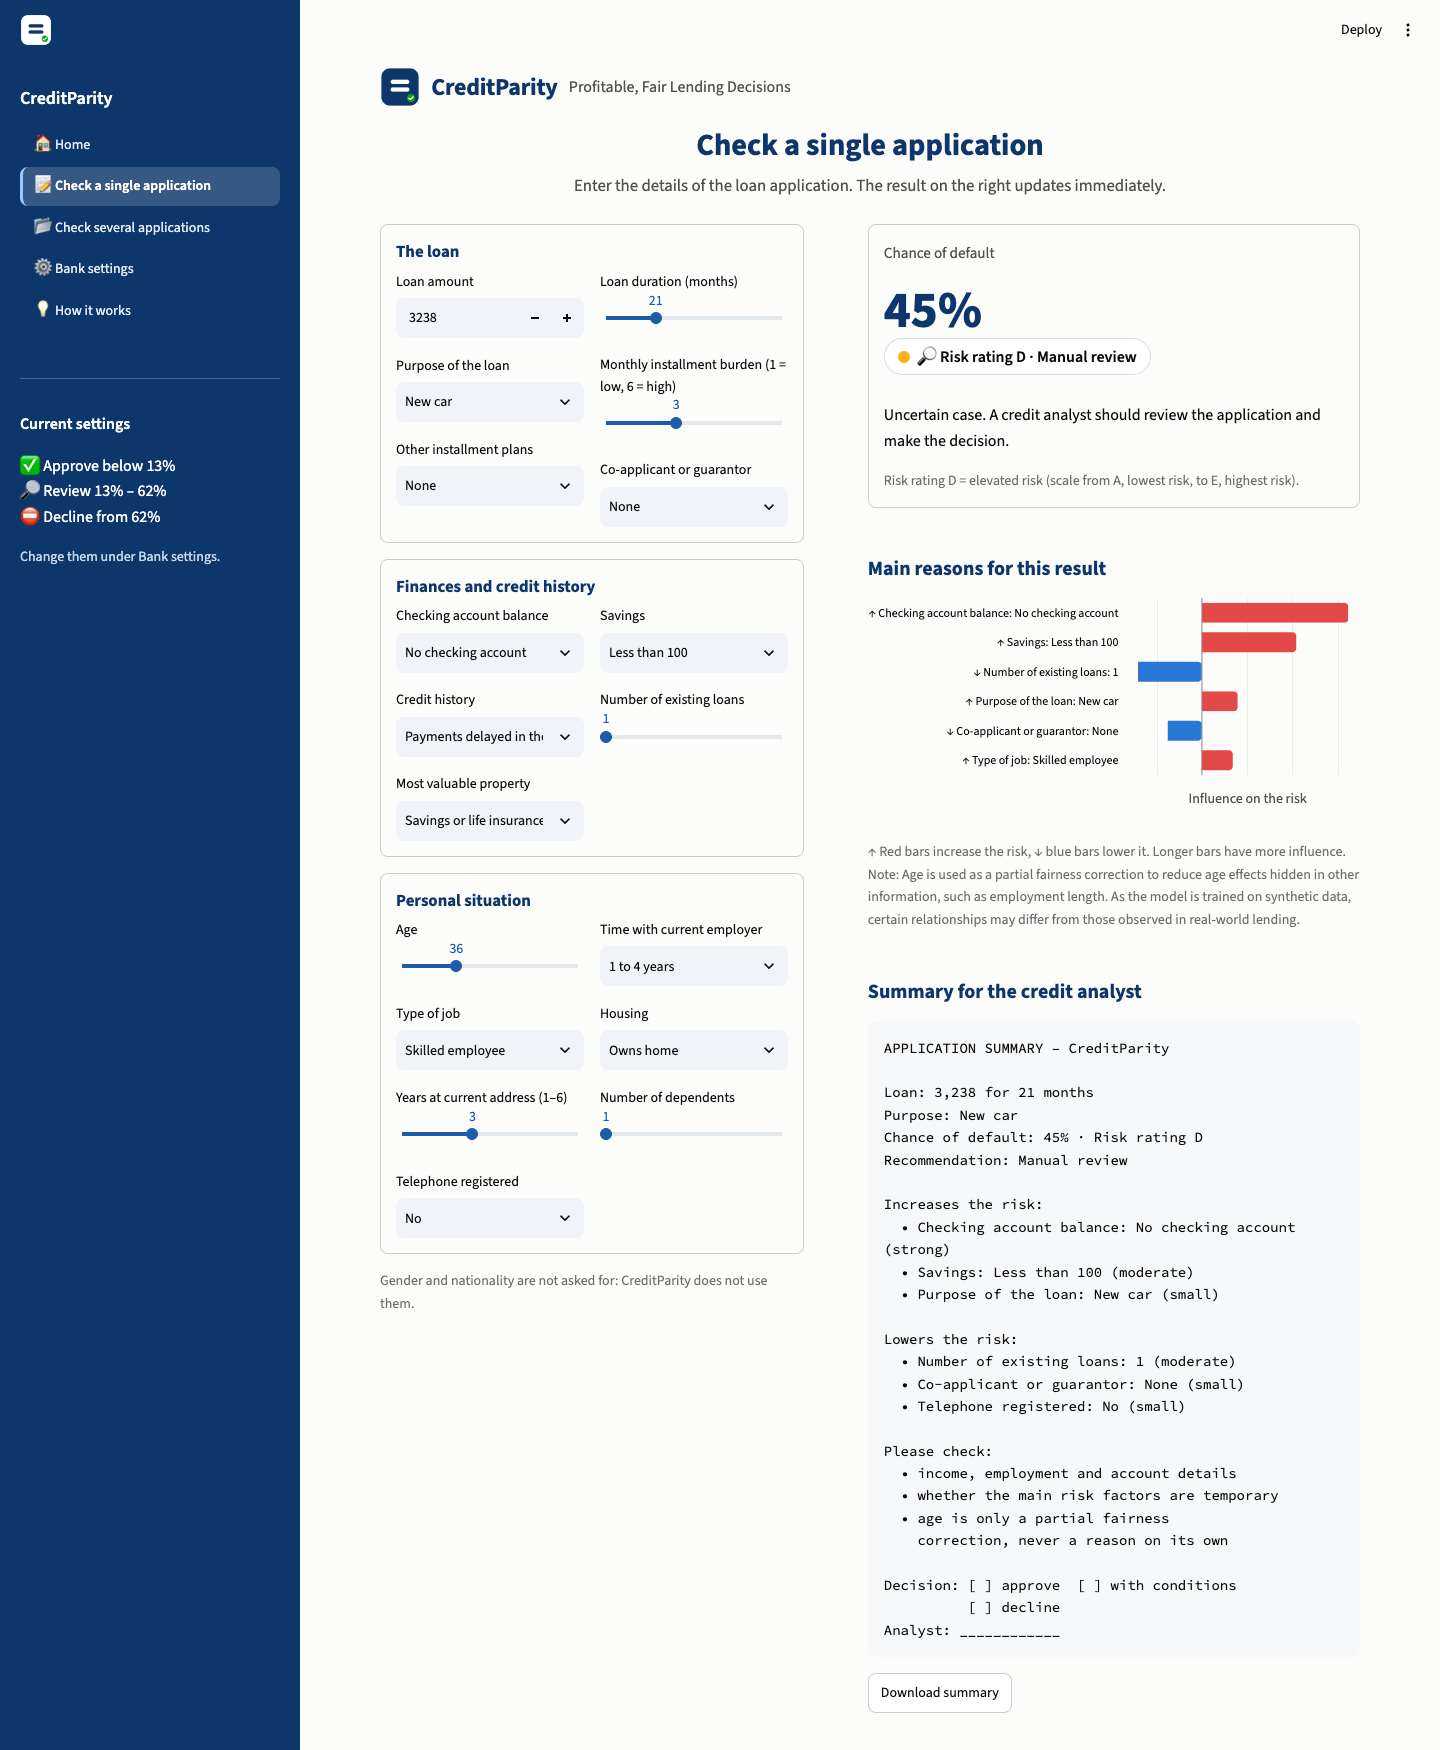
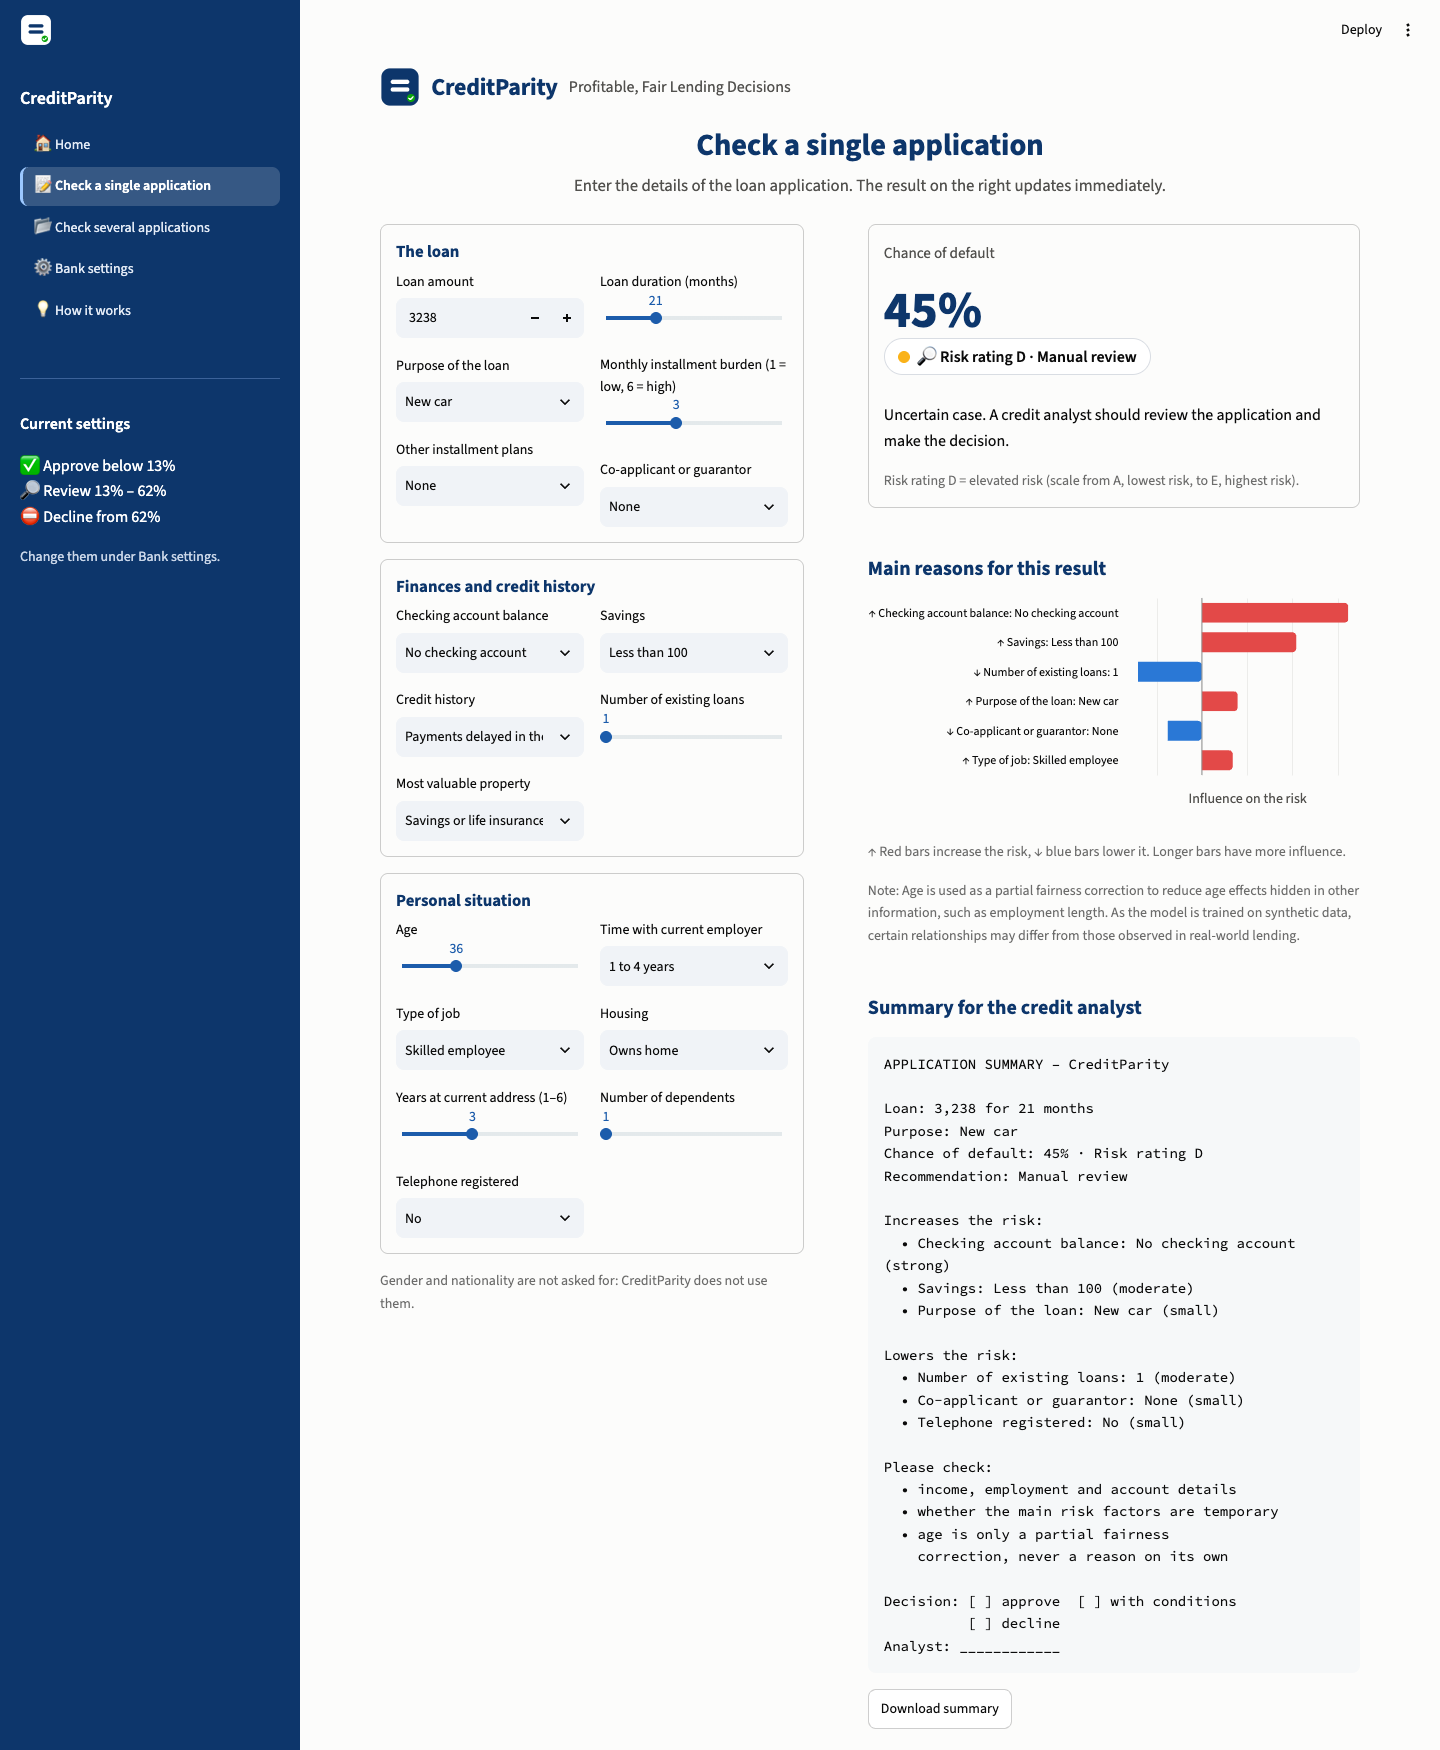
Add a blank line between the chart legend and the note

Changed region(s): [[0.5938, 0.4937, 0.9375, 0.9874]]

diff --git a/app.py b/app.py
@@ -492,7 +492,7 @@ def section_application():
 
         section_title("Main reasons for this result")
         st.altair_chart(reasons_chart(contrib, row.iloc[0]), width="stretch")
-        st.caption("↑ Red bars increase the risk, ↓ blue bars lower it. Longer bars have more influence.  \n"
+        st.caption("↑ Red bars increase the risk, ↓ blue bars lower it. Longer bars have more influence.\n\n"
                    "Note: Age is used as a partial fairness correction to reduce age effects hidden in other "
                    "information, such as employment length. As the model is trained on synthetic data, certain "
                    "relationships may differ from those observed in real-world lending.")
